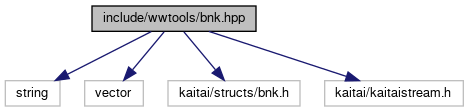
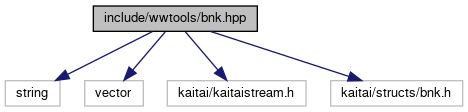
deploy: e44bca2398145abb82838f4528dd06359895eb1a

diff --git a/write_8hpp_source.html b/write_8hpp_source.html
@@ -95,38 +95,37 @@ $(document).ready(function(){initNavTree('write_8hpp_source.html',''); initResiz
 <div class="line"><a name="l00005"></a><span class="lineno">    5</span>&#160;<span class="preprocessor">#include &lt;ostream&gt;</span></div>
 <div class="line"><a name="l00006"></a><span class="lineno">    6</span>&#160; </div>
 <div class="line"><a name="l00007"></a><span class="lineno">    7</span>&#160;<span class="keyword">namespace </span>wwtools::util::write {</div>
-<div class="line"><a name="l00008"></a><span class="lineno">    8</span>&#160;    <span class="keyword">template</span>&lt;<span class="keyword">typename</span> T&gt;</div>
-<div class="line"><a name="l00009"></a><span class="lineno">    9</span>&#160;    <span class="keyword">inline</span> <span class="keywordtype">void</span> big_endian(<span class="keyword">const</span> <span class="keywordtype">char</span> *data, std::ostream&amp; os) {</div>
-<div class="line"><a name="l00010"></a><span class="lineno">   10</span>&#160;        <span class="keywordtype">char</span> arr_data[<span class="keyword">sizeof</span>(T)];</div>
-<div class="line"><a name="l00011"></a><span class="lineno">   11</span>&#160;        std::memcpy(arr_data, data, <span class="keyword">sizeof</span>(T));</div>
-<div class="line"><a name="l00012"></a><span class="lineno">   12</span>&#160;        <span class="keywordflow">for</span> (<span class="keywordtype">int</span> i = <span class="keyword">sizeof</span>(T) - 1; i &gt;= 0; i--)</div>
-<div class="line"><a name="l00013"></a><span class="lineno">   13</span>&#160;            os.put(arr_data[i]);</div>
-<div class="line"><a name="l00014"></a><span class="lineno">   14</span>&#160;    }</div>
+<div class="line"><a name="l00008"></a><span class="lineno">    8</span>&#160;<span class="keyword">template</span> &lt;<span class="keyword">typename</span> T&gt;</div>
+<div class="line"><a name="l00009"></a><span class="lineno">    9</span>&#160;<span class="keyword">inline</span> <span class="keywordtype">void</span> big_endian(<span class="keyword">const</span> <span class="keywordtype">char</span> *data, std::ostream &amp;os) {</div>
+<div class="line"><a name="l00010"></a><span class="lineno">   10</span>&#160;  <span class="keywordtype">char</span> arr_data[<span class="keyword">sizeof</span>(T)];</div>
+<div class="line"><a name="l00011"></a><span class="lineno">   11</span>&#160;  std::memcpy(arr_data, data, <span class="keyword">sizeof</span>(T));</div>
+<div class="line"><a name="l00012"></a><span class="lineno">   12</span>&#160;  <span class="keywordflow">for</span> (<span class="keywordtype">int</span> i = <span class="keyword">sizeof</span>(T) - 1; i &gt;= 0; i--)</div>
+<div class="line"><a name="l00013"></a><span class="lineno">   13</span>&#160;    os.put(arr_data[i]);</div>
+<div class="line"><a name="l00014"></a><span class="lineno">   14</span>&#160;}</div>
 <div class="line"><a name="l00015"></a><span class="lineno">   15</span>&#160; </div>
-<div class="line"><a name="l00016"></a><span class="lineno">   16</span>&#160;    <span class="keyword">template</span>&lt;<span class="keyword">typename</span> T&gt;</div>
-<div class="line"><a name="l00017"></a><span class="lineno">   17</span>&#160;    <span class="keyword">inline</span> <span class="keywordtype">void</span> big_endian(<span class="keyword">const</span> T&amp; data, std::ostream&amp; os) {</div>
-<div class="line"><a name="l00018"></a><span class="lineno">   18</span>&#160;        big_endian&lt;T&gt;(<span class="keyword">reinterpret_cast&lt;</span><span class="keyword">const </span><span class="keywordtype">char</span> *<span class="keyword">&gt;</span>(&amp;data), os);</div>
-<div class="line"><a name="l00019"></a><span class="lineno">   19</span>&#160;    }</div>
-<div class="line"><a name="l00020"></a><span class="lineno">   20</span>&#160; </div>
-<div class="line"><a name="l00021"></a><span class="lineno">   21</span>&#160;    <span class="keyword">template</span>&lt;<span class="keyword">typename</span> T&gt;</div>
-<div class="line"><a name="l00022"></a><span class="lineno">   22</span>&#160;    <span class="keyword">inline</span> <span class="keywordtype">void</span> little_endian(<span class="keyword">const</span> <span class="keywordtype">char</span> *data, std::ostream&amp; os) {</div>
-<div class="line"><a name="l00023"></a><span class="lineno">   23</span>&#160;        <span class="keywordtype">char</span> arr_data[<span class="keyword">sizeof</span>(T)];</div>
-<div class="line"><a name="l00024"></a><span class="lineno">   24</span>&#160;        std::memcpy(arr_data, data, <span class="keyword">sizeof</span>(T));</div>
-<div class="line"><a name="l00025"></a><span class="lineno">   25</span>&#160;        <span class="keywordflow">for</span> (<span class="keywordtype">int</span> i = 0; i &lt; <span class="keyword">sizeof</span>(T); i++)</div>
-<div class="line"><a name="l00026"></a><span class="lineno">   26</span>&#160;            os.put(arr_data[i]);</div>
-<div class="line"><a name="l00027"></a><span class="lineno">   27</span>&#160;    }</div>
-<div class="line"><a name="l00028"></a><span class="lineno">   28</span>&#160; </div>
-<div class="line"><a name="l00029"></a><span class="lineno">   29</span>&#160;    <span class="keyword">template</span>&lt;<span class="keyword">typename</span> T&gt;</div>
-<div class="line"><a name="l00030"></a><span class="lineno">   30</span>&#160;    <span class="keyword">inline</span> <span class="keywordtype">void</span> little_endian(<span class="keyword">const</span> T&amp; data, std::ostream&amp; os) {</div>
-<div class="line"><a name="l00031"></a><span class="lineno">   31</span>&#160;        little_endian&lt;T&gt;(<span class="keyword">reinterpret_cast&lt;</span><span class="keyword">const </span><span class="keywordtype">char</span> *<span class="keyword">&gt;</span>(&amp;data), os);</div>
-<div class="line"><a name="l00032"></a><span class="lineno">   32</span>&#160;    }</div>
-<div class="line"><a name="l00033"></a><span class="lineno">   33</span>&#160; </div>
-<div class="line"><a name="l00034"></a><span class="lineno">   34</span>&#160;    <span class="keyword">inline</span> <span class="keywordtype">void</span> raw_data(<span class="keyword">const</span> <span class="keywordtype">char</span> *data, <span class="keywordtype">size_t</span> size, std::ostream&amp; os) {</div>
-<div class="line"><a name="l00035"></a><span class="lineno">   35</span>&#160;        os.write(data, size);</div>
-<div class="line"><a name="l00036"></a><span class="lineno">   36</span>&#160;    }</div>
-<div class="line"><a name="l00037"></a><span class="lineno">   37</span>&#160;} <span class="comment">// namespace wwtools::util::write</span></div>
-<div class="line"><a name="l00038"></a><span class="lineno">   38</span>&#160; </div>
-<div class="line"><a name="l00039"></a><span class="lineno">   39</span>&#160;<span class="preprocessor">#endif </span><span class="comment">// WWTOOLS_UTIL_WRITE_HPP</span></div>
+<div class="line"><a name="l00016"></a><span class="lineno">   16</span>&#160;<span class="keyword">template</span> &lt;<span class="keyword">typename</span> T&gt; <span class="keyword">inline</span> <span class="keywordtype">void</span> big_endian(<span class="keyword">const</span> T &amp;data, std::ostream &amp;os) {</div>
+<div class="line"><a name="l00017"></a><span class="lineno">   17</span>&#160;  big_endian&lt;T&gt;(<span class="keyword">reinterpret_cast&lt;</span><span class="keyword">const </span><span class="keywordtype">char</span> *<span class="keyword">&gt;</span>(&amp;data), os);</div>
+<div class="line"><a name="l00018"></a><span class="lineno">   18</span>&#160;}</div>
+<div class="line"><a name="l00019"></a><span class="lineno">   19</span>&#160; </div>
+<div class="line"><a name="l00020"></a><span class="lineno">   20</span>&#160;<span class="keyword">template</span> &lt;<span class="keyword">typename</span> T&gt;</div>
+<div class="line"><a name="l00021"></a><span class="lineno">   21</span>&#160;<span class="keyword">inline</span> <span class="keywordtype">void</span> little_endian(<span class="keyword">const</span> <span class="keywordtype">char</span> *data, std::ostream &amp;os) {</div>
+<div class="line"><a name="l00022"></a><span class="lineno">   22</span>&#160;  <span class="keywordtype">char</span> arr_data[<span class="keyword">sizeof</span>(T)];</div>
+<div class="line"><a name="l00023"></a><span class="lineno">   23</span>&#160;  std::memcpy(arr_data, data, <span class="keyword">sizeof</span>(T));</div>
+<div class="line"><a name="l00024"></a><span class="lineno">   24</span>&#160;  <span class="keywordflow">for</span> (<span class="keywordtype">int</span> i = 0; i &lt; <span class="keyword">sizeof</span>(T); i++)</div>
+<div class="line"><a name="l00025"></a><span class="lineno">   25</span>&#160;    os.put(arr_data[i]);</div>
+<div class="line"><a name="l00026"></a><span class="lineno">   26</span>&#160;}</div>
+<div class="line"><a name="l00027"></a><span class="lineno">   27</span>&#160; </div>
+<div class="line"><a name="l00028"></a><span class="lineno">   28</span>&#160;<span class="keyword">template</span> &lt;<span class="keyword">typename</span> T&gt;</div>
+<div class="line"><a name="l00029"></a><span class="lineno">   29</span>&#160;<span class="keyword">inline</span> <span class="keywordtype">void</span> little_endian(<span class="keyword">const</span> T &amp;data, std::ostream &amp;os) {</div>
+<div class="line"><a name="l00030"></a><span class="lineno">   30</span>&#160;  little_endian&lt;T&gt;(<span class="keyword">reinterpret_cast&lt;</span><span class="keyword">const </span><span class="keywordtype">char</span> *<span class="keyword">&gt;</span>(&amp;data), os);</div>
+<div class="line"><a name="l00031"></a><span class="lineno">   31</span>&#160;}</div>
+<div class="line"><a name="l00032"></a><span class="lineno">   32</span>&#160; </div>
+<div class="line"><a name="l00033"></a><span class="lineno">   33</span>&#160;<span class="keyword">inline</span> <span class="keywordtype">void</span> raw_data(<span class="keyword">const</span> <span class="keywordtype">char</span> *data, <span class="keywordtype">size_t</span> size, std::ostream &amp;os) {</div>
+<div class="line"><a name="l00034"></a><span class="lineno">   34</span>&#160;  os.write(data, size);</div>
+<div class="line"><a name="l00035"></a><span class="lineno">   35</span>&#160;}</div>
+<div class="line"><a name="l00036"></a><span class="lineno">   36</span>&#160;} <span class="comment">// namespace wwtools::util::write</span></div>
+<div class="line"><a name="l00037"></a><span class="lineno">   37</span>&#160; </div>
+<div class="line"><a name="l00038"></a><span class="lineno">   38</span>&#160;<span class="preprocessor">#endif </span><span class="comment">// WWTOOLS_UTIL_WRITE_HPP</span></div>
 </div><!-- fragment --></div><!-- contents -->
 </div><!-- doc-content -->
 <!-- start footer part -->

diff --git a/w3sc_8hpp_source.html b/w3sc_8hpp_source.html
@@ -95,17 +95,18 @@ $(document).ready(function(){initNavTree('w3sc_8hpp_source.html',''); initResiza
 <div class="line"><a name="l00014"></a><span class="lineno">   14</span>&#160;<span class="preprocessor">#include &lt;string&gt;</span></div>
 <div class="line"><a name="l00015"></a><span class="lineno">   15</span>&#160;<span class="preprocessor">#include &lt;vector&gt;</span></div>
 <div class="line"><a name="l00016"></a><span class="lineno">   16</span>&#160; </div>
-<div class="line"><a name="l00017"></a><span class="lineno">   17</span>&#160;<span class="preprocessor">#include &quot;kaitai/structs/w3sc.h&quot;</span></div>
-<div class="line"><a name="l00018"></a><span class="lineno">   18</span>&#160;<span class="preprocessor">#include &quot;kaitai/kaitaistream.h&quot;</span></div>
+<div class="line"><a name="l00017"></a><span class="lineno">   17</span>&#160;<span class="preprocessor">#include &quot;kaitai/kaitaistream.h&quot;</span></div>
+<div class="line"><a name="l00018"></a><span class="lineno">   18</span>&#160;<span class="preprocessor">#include &quot;kaitai/structs/w3sc.h&quot;</span></div>
 <div class="line"><a name="l00019"></a><span class="lineno">   19</span>&#160; </div>
 <div class="line"><a name="l00025"></a><span class="lineno">   25</span>&#160;<span class="keyword">namespace </span><a class="code" href="namespacewwtools_1_1w3sc.html">wwtools::w3sc</a> {</div>
 <div class="line"><a name="l00032"></a><span class="lineno">   32</span>&#160;std::string <a class="code" href="namespacewwtools_1_1w3sc.html#a6bcfb87689b59fdab78b4e244f821e0d">get_info</a>(<span class="keyword">const</span> std::string &amp;indata);</div>
-<div class="line"><a name="l00033"></a><span class="lineno">   33</span>&#160;<span class="keywordtype">void</span> create(<span class="keyword">const</span> std::vector&lt;std::pair&lt;std::string, std::string&gt;&gt;&amp; files, std::ostream&amp; os);</div>
-<div class="line"><a name="l00034"></a><span class="lineno">   34</span>&#160;} <span class="comment">// namespace wwtools::w3sc</span></div>
-<div class="line"><a name="l00035"></a><span class="lineno">   35</span>&#160; </div>
-<div class="line"><a name="l00036"></a><span class="lineno">   36</span>&#160;<span class="preprocessor">#endif </span><span class="comment">// WWTOOLS_W3SC_HPP</span></div>
+<div class="line"><a name="l00033"></a><span class="lineno">   33</span>&#160;<span class="keywordtype">void</span> create(<span class="keyword">const</span> std::vector&lt;std::pair&lt;std::string, std::string&gt;&gt; &amp;files,</div>
+<div class="line"><a name="l00034"></a><span class="lineno">   34</span>&#160;            std::ostream &amp;os);</div>
+<div class="line"><a name="l00035"></a><span class="lineno">   35</span>&#160;} <span class="comment">// namespace wwtools::w3sc</span></div>
+<div class="line"><a name="l00036"></a><span class="lineno">   36</span>&#160; </div>
+<div class="line"><a name="l00037"></a><span class="lineno">   37</span>&#160;<span class="preprocessor">#endif </span><span class="comment">// WWTOOLS_W3SC_HPP</span></div>
 <div class="ttc" id="anamespacewwtools_1_1w3sc_html"><div class="ttname"><a href="namespacewwtools_1_1w3sc.html">wwtools::w3sc</a></div><div class="ttdoc">contains helper functions for The Witcher 3 sound cache files</div></div>
-<div class="ttc" id="anamespacewwtools_1_1w3sc_html_a6bcfb87689b59fdab78b4e244f821e0d"><div class="ttname"><a href="namespacewwtools_1_1w3sc.html#a6bcfb87689b59fdab78b4e244f821e0d">wwtools::w3sc::get_info</a></div><div class="ttdeci">std::string get_info(const std::string &amp;indata)</div><div class="ttdoc">get the info string</div><div class="ttdef"><b>Definition:</b> w3sc.cpp:97</div></div>
+<div class="ttc" id="anamespacewwtools_1_1w3sc_html_a6bcfb87689b59fdab78b4e244f821e0d"><div class="ttname"><a href="namespacewwtools_1_1w3sc.html#a6bcfb87689b59fdab78b4e244f821e0d">wwtools::w3sc::get_info</a></div><div class="ttdeci">std::string get_info(const std::string &amp;indata)</div><div class="ttdoc">get the info string</div><div class="ttdef"><b>Definition:</b> w3sc.cpp:105</div></div>
 </div><!-- fragment --></div><!-- contents -->
 </div><!-- doc-content -->
 <!-- start footer part -->

diff --git a/bnk_8hpp_source.html b/bnk_8hpp_source.html
@@ -95,8 +95,8 @@ $(document).ready(function(){initNavTree('bnk_8hpp_source.html',''); initResizab
 <div class="line"><a name="l00014"></a><span class="lineno">   14</span>&#160;<span class="preprocessor">#include &lt;string&gt;</span></div>
 <div class="line"><a name="l00015"></a><span class="lineno">   15</span>&#160;<span class="preprocessor">#include &lt;vector&gt;</span></div>
 <div class="line"><a name="l00016"></a><span class="lineno">   16</span>&#160; </div>
-<div class="line"><a name="l00017"></a><span class="lineno">   17</span>&#160;<span class="preprocessor">#include &quot;kaitai/structs/bnk.h&quot;</span></div>
-<div class="line"><a name="l00018"></a><span class="lineno">   18</span>&#160;<span class="preprocessor">#include &quot;kaitai/kaitaistream.h&quot;</span></div>
+<div class="line"><a name="l00017"></a><span class="lineno">   17</span>&#160;<span class="preprocessor">#include &quot;kaitai/kaitaistream.h&quot;</span></div>
+<div class="line"><a name="l00018"></a><span class="lineno">   18</span>&#160;<span class="preprocessor">#include &quot;kaitai/structs/bnk.h&quot;</span></div>
 <div class="line"><a name="l00019"></a><span class="lineno">   19</span>&#160; </div>
 <div class="line"><a name="l00025"></a><span class="lineno">   25</span>&#160;<span class="keyword">namespace </span><a class="code" href="namespacewwtools_1_1bnk.html">wwtools::bnk</a> {</div>
 <div class="line"><a name="l00032"></a><span class="lineno">   32</span>&#160;<span class="keywordtype">void</span> <a class="code" href="namespacewwtools_1_1bnk.html#adb80afb43747683c49dddba4261212ac">extract</a>(<span class="keyword">const</span> std::string &amp;indata, std::vector&lt;std::string&gt; &amp;outdata);</div>

diff --git a/wwtools_8hpp_source.html b/wwtools_8hpp_source.html
@@ -95,7 +95,7 @@ $(document).ready(function(){initNavTree('wwtools_8hpp_source.html',''); initRes
 <div class="line"><a name="l00014"></a><span class="lineno">   14</span>&#160;<span class="preprocessor">#include &lt;string&gt;</span></div>
 <div class="line"><a name="l00015"></a><span class="lineno">   15</span>&#160; </div>
 <div class="line"><a name="l00021"></a><span class="lineno">   21</span>&#160;<span class="keyword">namespace </span>wwtools {</div>
-<div class="line"><a name="l00028"></a><span class="lineno">   28</span>&#160;std::string <a class="code" href="wwtools_8hpp.html#af6b2182866027e78f7a5d3a9912eca0a">wem_to_ogg</a>(<span class="keyword">const</span> std::string&amp; indata);</div>
+<div class="line"><a name="l00028"></a><span class="lineno">   28</span>&#160;std::string <a class="code" href="wwtools_8hpp.html#af6b2182866027e78f7a5d3a9912eca0a">wem_to_ogg</a>(<span class="keyword">const</span> std::string &amp;indata);</div>
 <div class="line"><a name="l00029"></a><span class="lineno">   29</span>&#160;} <span class="comment">// namespace wwtools</span></div>
 <div class="line"><a name="l00030"></a><span class="lineno">   30</span>&#160; </div>
 <div class="line"><a name="l00031"></a><span class="lineno">   31</span>&#160;<span class="preprocessor">#endif </span><span class="comment">// WWTOOLS_WWTOOLS_HPP</span></div>

diff --git a/bnk_8hpp.html b/bnk_8hpp.html
@@ -96,18 +96,18 @@ $(document).ready(function(){initNavTree('bnk_8hpp.html',''); initResizable(); }
 <a href="#details">More...</a></p>
 <div class="textblock"><code>#include &lt;string&gt;</code><br />
 <code>#include &lt;vector&gt;</code><br />
-<code>#include &quot;kaitai/structs/bnk.h&quot;</code><br />
 <code>#include &quot;kaitai/kaitaistream.h&quot;</code><br />
+<code>#include &quot;kaitai/structs/bnk.h&quot;</code><br />
 </div><div class="textblock"><div class="dynheader">
 Include dependency graph for bnk.hpp:</div>
 <div class="dyncontent">
 <div class="center"><img src="bnk_8hpp__incl.png" border="0" usemap="#ainclude_2wwtools_2bnk_8hpp" alt=""/></div>
 <map name="ainclude_2wwtools_2bnk_8hpp" id="ainclude_2wwtools_2bnk_8hpp">
-<area shape="rect" title="works with Wwise Soundbank files" alt="" coords="92,5,256,32"/>
+<area shape="rect" title="works with Wwise Soundbank files" alt="" coords="93,5,257,32"/>
 <area shape="rect" title=" " alt="" coords="5,80,60,107"/>
 <area shape="rect" title=" " alt="" coords="85,80,143,107"/>
-<area shape="rect" title=" " alt="" coords="168,80,300,107"/>
-<area shape="rect" title=" " alt="" coords="325,80,463,107"/>
+<area shape="rect" title=" " alt="" coords="167,80,306,107"/>
+<area shape="rect" title=" " alt="" coords="331,80,463,107"/>
 </map>
 </div>
 </div>

diff --git a/w3sc_8hpp.html b/w3sc_8hpp.html
@@ -96,8 +96,8 @@ $(document).ready(function(){initNavTree('w3sc_8hpp.html',''); initResizable(); 
 <a href="#details">More...</a></p>
 <div class="textblock"><code>#include &lt;string&gt;</code><br />
 <code>#include &lt;vector&gt;</code><br />
-<code>#include &quot;kaitai/structs/w3sc.h&quot;</code><br />
 <code>#include &quot;kaitai/kaitaistream.h&quot;</code><br />
+<code>#include &quot;kaitai/structs/w3sc.h&quot;</code><br />
 </div><div class="textblock"><div class="dynheader">
 Include dependency graph for w3sc.hpp:</div>
 <div class="dyncontent">
@@ -106,8 +106,8 @@ Include dependency graph for w3sc.hpp:</div>
 <area shape="rect" title="works with sound cache files from The Witcher 3" alt="" coords="88,5,263,32"/>
 <area shape="rect" title=" " alt="" coords="5,80,60,107"/>
 <area shape="rect" title=" " alt="" coords="85,80,143,107"/>
-<area shape="rect" title=" " alt="" coords="167,80,309,107"/>
-<area shape="rect" title=" " alt="" coords="334,80,473,107"/>
+<area shape="rect" title=" " alt="" coords="167,80,306,107"/>
+<area shape="rect" title=" " alt="" coords="331,80,473,107"/>
 </map>
 </div>
 </div>
